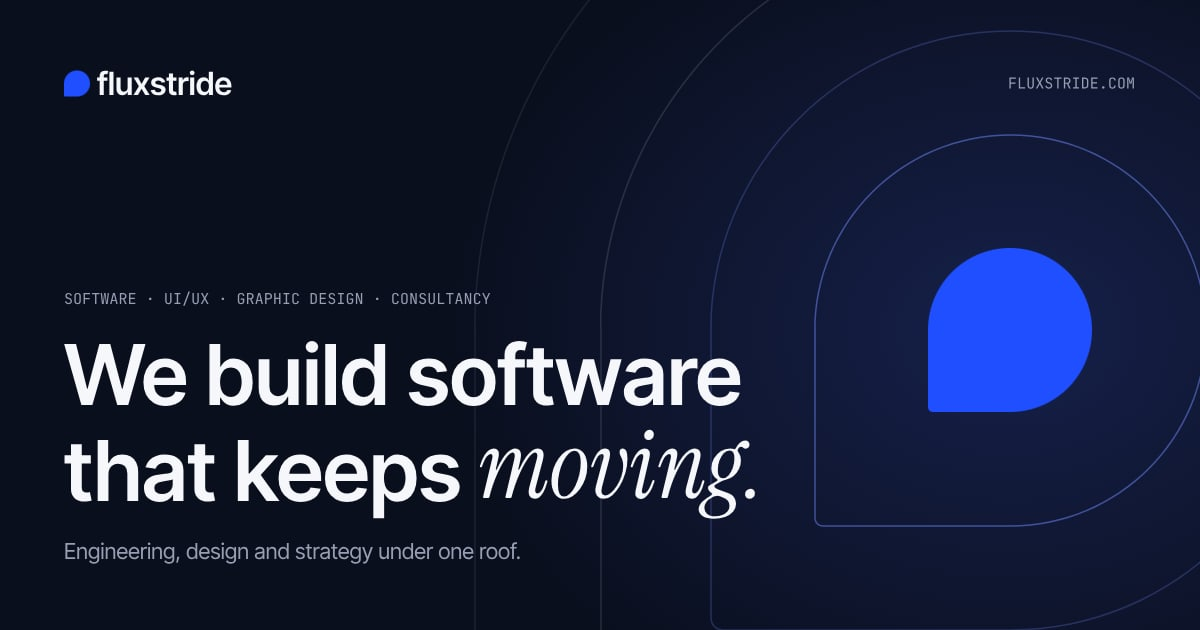
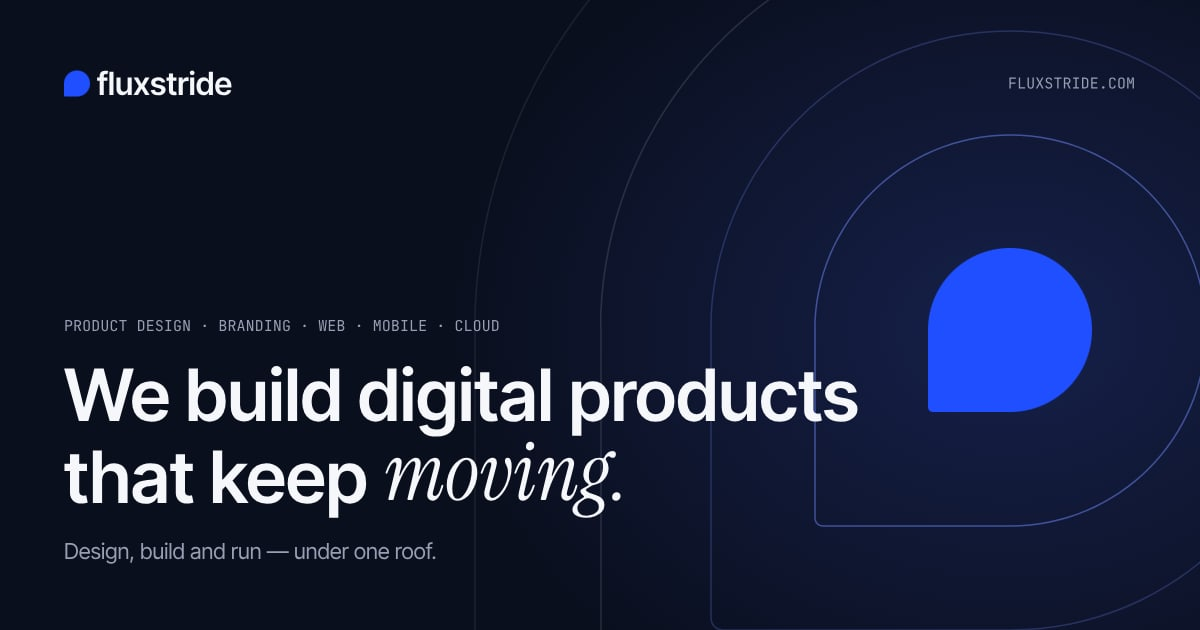
feat(home): new tagline — We build digital products that keep moving

Changed region(s): [[0.0308, 0.5127, 0.74, 0.9048], [0.0617, 0.4524, 0.4008, 0.4825]]

diff --git a/src/components/home/Hero.tsx b/src/components/home/Hero.tsx
@@ -27,21 +27,21 @@ export function Hero() {
           <Eyebrow className="max-lg:hidden">Design · Build · Run</Eyebrow>
         </Reveal>
 
-        {/* On desktop the size is also capped by the container (11.25cqw = 144px at 1280px wide)
-            so "We build software" stays on one line on laptops narrower than the canvas. */}
+        {/* On desktop the size is also capped by the container (8.9cqw = 114px at 1280px wide)
+            so "We build digital products" stays on one line on laptops narrower than the canvas. */}
         <RevealText
           as="h1"
           id="hero-title"
           on="mount"
           stagger={0.06}
-          className="text-display-2xl leading-[0.95] lg:text-[length:min(var(--text-display-2xl),11.25cqw)] lg:leading-[0.92]"
+          className="text-display-2xl leading-[0.95] lg:text-[length:min(var(--text-display-2xl),8.9cqw)] lg:leading-[0.92]"
         >
-          We build software <br className="max-lg:hidden" />
+          We build digital products <br className="max-lg:hidden" />
           that <br className="lg:hidden" />
-          <span className="max-lg:font-serif max-lg:text-[1.103em] max-lg:font-normal max-lg:italic">
-            keeps
+          <span className="max-lg:font-serif max-lg:text-[1.1em] max-lg:font-normal max-lg:italic">
+            keep
           </span>{' '}
-          <Accent className="text-[1.103em] lg:text-[1.139em]">moving.</Accent>
+          <Accent className="text-[1.1em] lg:text-[1.14em]">moving.</Accent>
         </RevealText>
       </div>
 

diff --git a/src/styles/tokens.css b/src/styles/tokens.css
@@ -65,8 +65,8 @@
 
   /* -- Display: page-level headlines -- */
 
-  /* Home hero: 58px → 144px */
-  --text-display-2xl: clamp(3.625rem, 1.6286rem + 8.1905vw, 9rem);
+  /* Home hero: 50px → 114px */
+  --text-display-2xl: clamp(3.125rem, 1.6393rem + 6.0952vw, 7.125rem);
   --text-display-2xl--line-height: 0.92;
   --text-display-2xl--font-weight: 600;
 

diff --git a/src/lib/seo.ts b/src/lib/seo.ts
@@ -37,7 +37,7 @@ const og = (name: string, alt: string): OgImage => ({
   alt,
 })
 
-export const DEFAULT_OG = og('og-default', 'Fluxstride — We build software that keeps moving.')
+export const DEFAULT_OG = og('og-default', 'Fluxstride — We build digital products that keep moving.')
 
 export type PageSeo = {
   path: string
